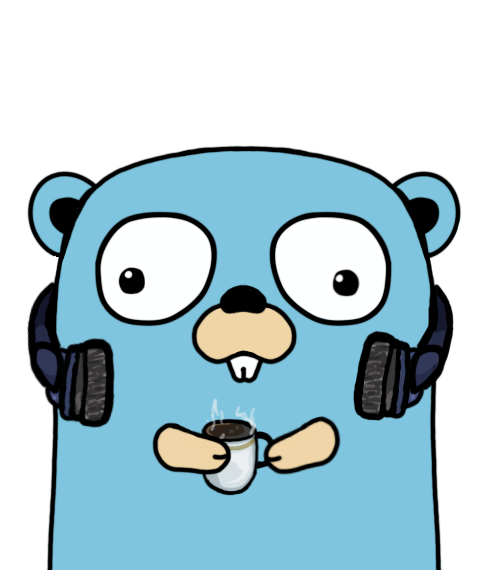
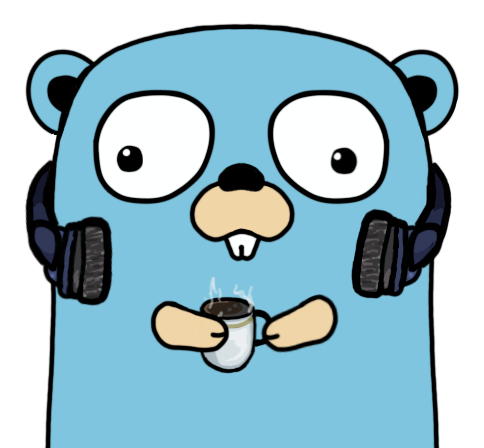
Update README; Crop whitespace around gopher

diff --git a/README.md b/README.md
@@ -2,7 +2,14 @@
 
 ![gopher logo](gopher.png)
 
-Hop is an interactive test runner for Go. It was inspired by Jest's *--watch* mode and [this](https://twitter.com/felixge/status/1286359708799062016) tweet. It's called Hop, because well, you just hop in and start running your tests! Coffee and music are optional, but recommended!
+Hop is an interactive test runner for Go. It was inspired by Jest's [*--watch*](https://jestjs.io/docs/en/cli#--watch) mode and [this](https://twitter.com/felixge/status/1286359708799062016) tweet. It's called Hop, because well, you just hop in and start running your tests! Coffee and music are optional, but recommended!
+
+## Installation and Usage
+
+You can get `hop` by running.
+
+
+It comes with two modes; the default plain old boring B&W, as well as colourized 🌈, by providing the `--color` flag.
 
 
 ## Are you just wrapping some commands?
@@ -16,10 +23,11 @@ go test -v ./... -list <pattern>
 go test -v ./... -run <pattern>
 ```
 
+## How does it work?
+Hop is a simple REPL, which runs the aforementioned `go test` commands. As we mentioned, it features two modes, monochrome (by default) which displays the stdout/stderr, and colorful (enabled by using `--color`).
 
+Hop uses two custom `io.Writer` types, *monochromeWriter* and *colourizedWriter*. After that, it's just using [`exec.Command`](https://golang.org/pkg/os/exec/#Command), and `io.MultiWriter` to stream the output to our custom writer.
 
-## ROADMAP
-At this point, the output is *not* streaming, but is printed all at once, at the end of a run.
+The inspiration, Jest, works a little bit different. It watches for files for changes and reruns tests related to changed files only. I tried using [fsnotify](https://github.com/fsnotify/fsnotify) for the same effect, but ultimately I decided it isn't worth it. 
 
-This is problematic, for long running tests or larger suites, but I'm working on fixing this soon!
-
+Changes to a specific file might have effects on a different package, so something like fsnotify would not catch all the cases. The good news is that the `go test` tool takes care of all this, by caching tests that wouldn't change, and rerunning any tests that are affected by changes, which is what we'd ultimately want! 
